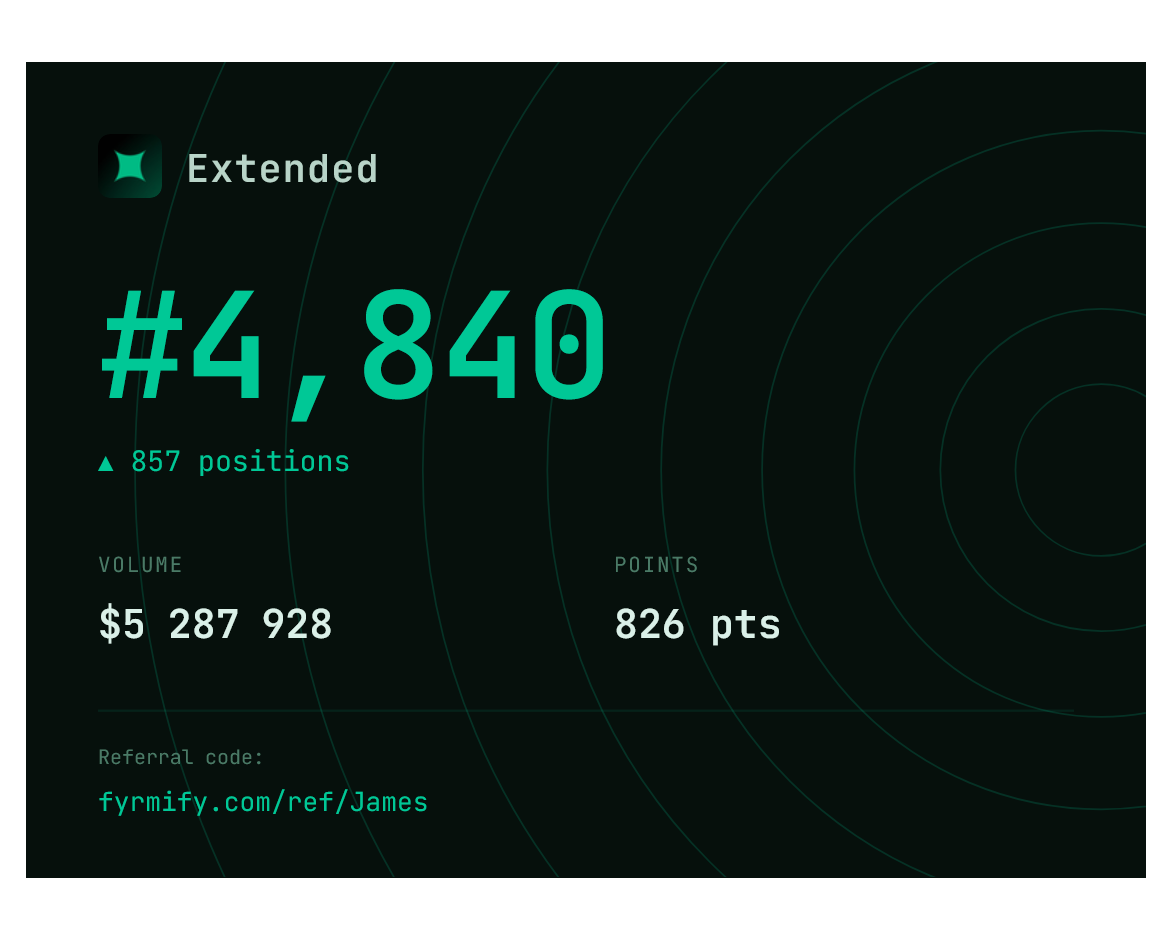
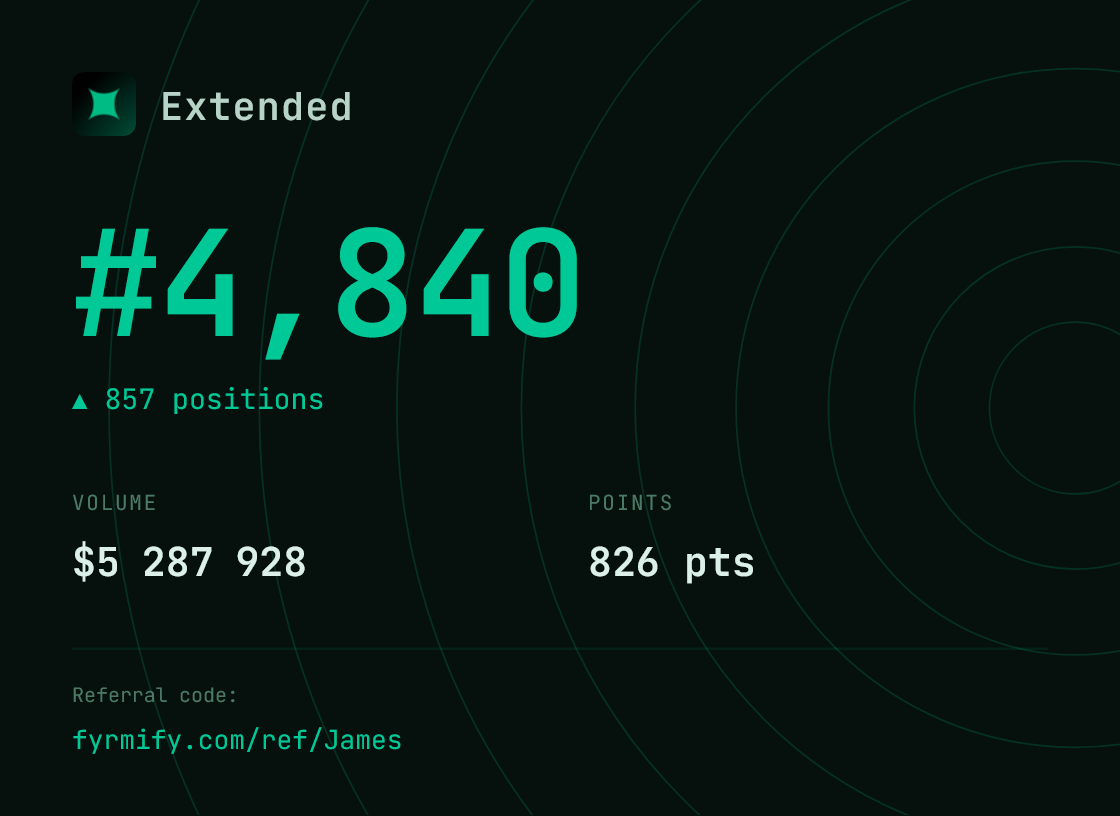
Restore original images, remove border, bigger bold captions

diff --git a/index.html b/index.html
@@ -206,15 +206,14 @@
             width: 100%;
             height: auto;
             display: block;
-            border: 2px solid var(--charcoal);
             border-radius: 0.5rem;
         }
 
         .screenshot-caption {
-            margin-top: 0.5rem;
-            font-size: 0.82rem;
-            color: var(--earth);
-            font-weight: 500;
+            margin-top: 0.6rem;
+            font-size: 1rem;
+            color: var(--charcoal);
+            font-weight: 700;
             text-align: center;
         }
 
